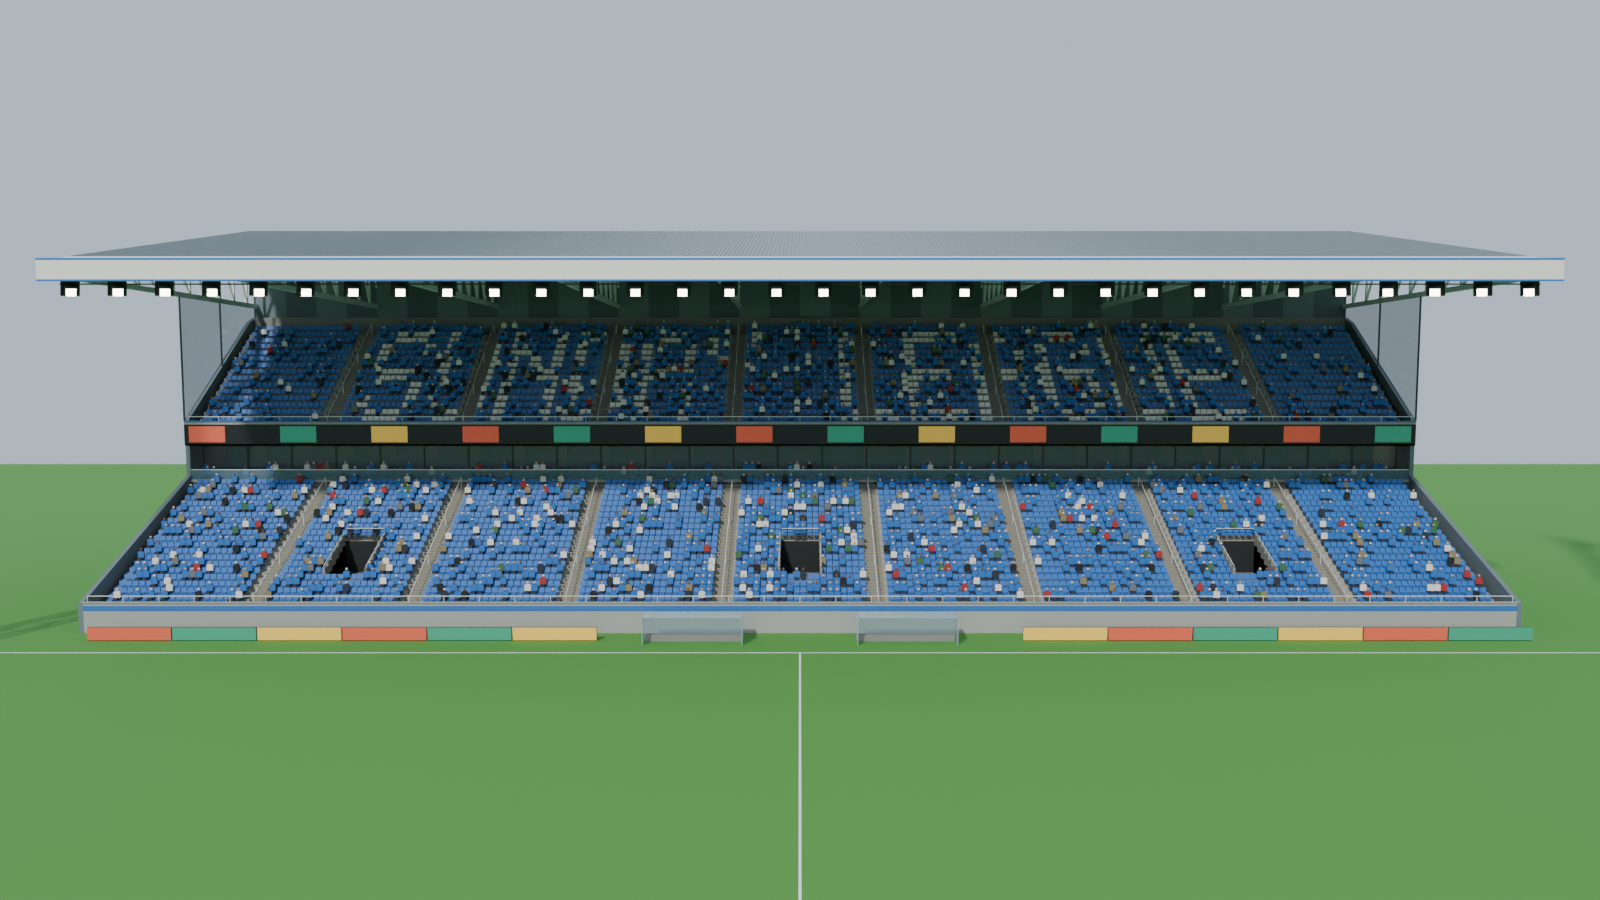
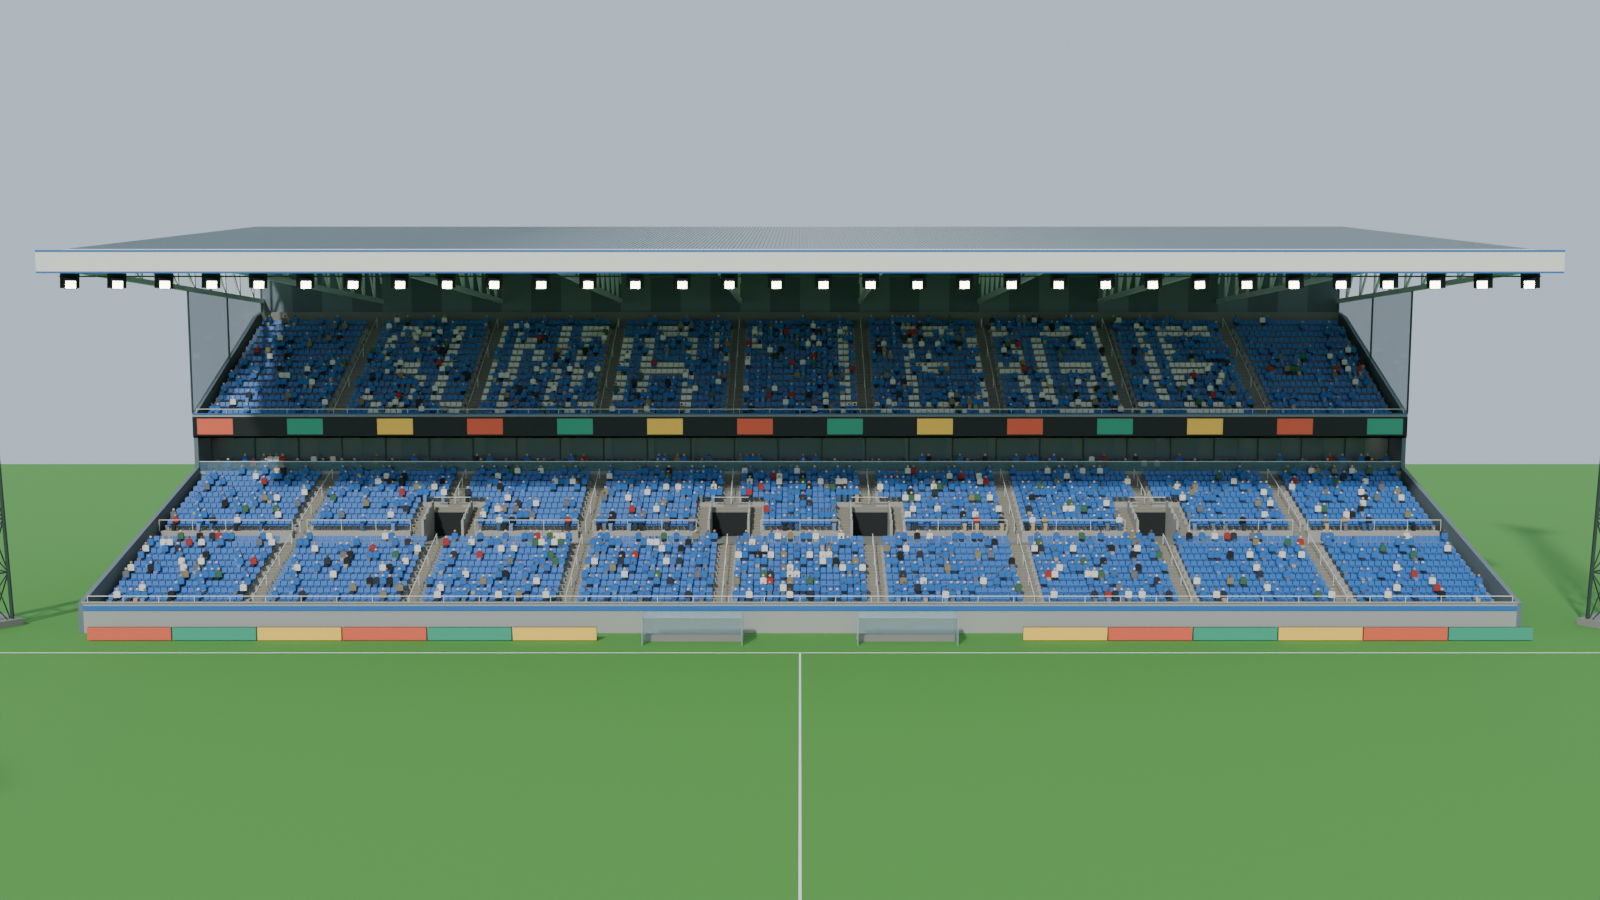
Big stand: renders + GDD for feedback round 1
Claude-Session: https://claude.ai/code/session_014ycydqV6UcPmXsxcMbevVi

diff --git a/GDD.md b/GDD.md
@@ -249,10 +249,10 @@ By the time you reach it, you're a big club with a real stadium and a real fanba
 
 **What Claude built** (numbers are Claude's picks, tunable):
 - 103.5 m wide, ~35 m deep, roof front edge ~26 m high, cantilevered ~36 m from the rear columns (no columns in front of the view); white warren trusses at every section boundary, rear columns + back-stay ties, corrugated roof with a 4 m translucent strip at the front, club-colour fascia.
-- Lower tier: 20 rows (0.80 m tread, 0.36 m rise) on a raised walkway behind a pitch-side wall with a club-colour band; 8 aisles with half-steps, yellow nosings and handrails; 3 vomitories (tunnel mouths) in sections 2, 5, 8.
+- Lower tier: 20 rows (0.80 m tread, 0.36 m rise) on a raised walkway behind a pitch-side wall with a club-colour band; 8 stairs with yellow nosings and handrails; cross-aisle + 4 tunnels (see feedback round 1).
 - Skybox level: 27 glass boxes (3 per section) with warm ceiling lights, partitions and a bar; balcony with 2 rows of premium seats and a glass balustrade.
 - Upper tier: 15 rows (0.85 m tread, 0.55 m rise, steeper), front parapet with a black LED band + adverts, aisles + handrails, rear walkway; "SUNDAY LEAGUE" in white seats (5×7 pixel font, 2 seats × 2 rows per pixel).
-- Floodlights: a gantry with 32 lamps along the roof edge + 2 lattice masts (40 m) at the front corners, 6×4 lamp heads aimed at the centre spot.
+- Floodlights: a gantry with 32 lamps along the roof edge + lattice masts (40 m) with 6×4 lamp heads aimed at the centre spot (now 4, see feedback round 1).
 - Ends: clad end walls + glazed wind screens up to the roof. Back: simple clad facade (Marcel's choice for now), window band, 3 stair cores with entrances + canopies, "SUNDAY LEAGUE" sign.
 - Pitch-side: advert boards + 2 perspex dugouts.
 - 6,516 seats (6,354 + 162 premium) and 1,872 fans (29%, fuller in the middle; 65% primary shirts, 15% secondary, 20% other colours; 3 skin tones).
@@ -262,6 +262,13 @@ By the time you reach it, you're a big club with a real stadium and a real fanba
 - `tools/blender/build_big_stand.py` → `assets/models/big_stand.glb` (structure, ~22k faces, 2.4 MB) + `big_stand_layout.json` (every seat/fan).
 - In Godot `scripts/big_stand.gd` draws seats and fans with MultiMesh + `instanced_parts.gdshader` (part mask in vertex colour, colour per instance). `set_club_colours(primary, secondary)` recolours seats, the club name, club shirts and the `Club_*` materials of the structure live — ready for the club colours upgrade (§10f).
 - Dev: `godot -- --bigstand` (north side, 6 m behind the touchline); `--club-colours=C8102E,F2F2F2` to demo recolouring.
+
+**Marcel's feedback round 1 (2026-11-07) and what changed:**
+- "Tunnels connect straight onto the seats, not to the stairs — unrealistic." Marcel chose: tunnels on the stairs + a cross-aisle + the stair goes around the tunnel and merges again. Built: a 1.6 m cross-aisle behind row 9 over the full width (rows behind it start 0.54 m higher, with a rail on that edge, open at every stair); 4 tunnels (on the stairs at x = ±5.75 and ±28.75 — 4 instead of 3 to stay symmetric with the stairs) opening onto the cross-aisle; behind it the stair splits into two 0.9 m stairs alongside the tunnel walls, which merge on a landing above the tunnel mouth into one stair again. Steps are now max ~0.3 m (3 steps where the cross-aisle jump is).
+- "The floodlight mast stands behind the pitch, not in the corner." Marcel chose: **masts in all 4 corners**. Now a separate model `assets/models/floodlight_mast.glb` (the far-side masts don't belong to the stand), placed 8 m diagonally out from each corner flag, aimed at the centre spot.
+- "Everyone wears black trousers." Now 6 trouser colours (jeans, dark, black, grey, beige, light jeans), packed with the skin tone into the instance data.
+- Seats now 6,464, fans 1,830 (the tunnel zones took some seats).
+- Godot loads BigStand by path (a new class_name made the game fail before the editor rescanned), and a missing import gives a clear message. New models/sounds need `godot --path . --headless --import` (or opening the editor once) after a pull.
 
 **Seen and fixed during the build:** fans too wide (letters unreadable) → slimmer; open gap between back wall and roof → clad up to the roof, glazed end screens; two stacked rows of colourful boards → front wall now concrete + club band; facade sign was mirrored and hidden behind the centre core/columns → mirrored, moved up, narrower.
 

diff --git a/README.md b/README.md
@@ -51,6 +51,7 @@ Set-piece test: `-- --autoplay --restart-test` forces corners, throw-ins, goal k
 Club flow test: `-- --hub-test` (prints state, placement, match summary, save round-trip).
 Quick friendly (2x3 s, then summary + autosave): `-- --quick-friendly`.
 3D test asset The Shed on the north side: `-- --shed` (combine with `--hub-view=0,-30,0.55,25` for a close look). Rebuild the model: `python3 tools/blender/build_shed.py [--render]` (needs `pip install bpy`).
+After a pull with new models or sounds: `godot --path . --headless --import` once (or open the editor).
 Big stand POC (GDD §10i): `-- --bigstand` (optional `--club-colours=C8102E,F2F2F2`). Rebuild: `python3 tools/blender/build_big_stand.py [--render]`.
 Lighting (GDD §10g): default is fancy (AgX, SSAO, softer sun, calmer grass, global illumination, glow, haze). Lighter: `-- --new-light` (no GI/glow/haze). Original: `-- --old-light`.
 Shot test (90 shots at their keeper): `godot --headless --path . --fixed-fps 60 -- --shot-test`
